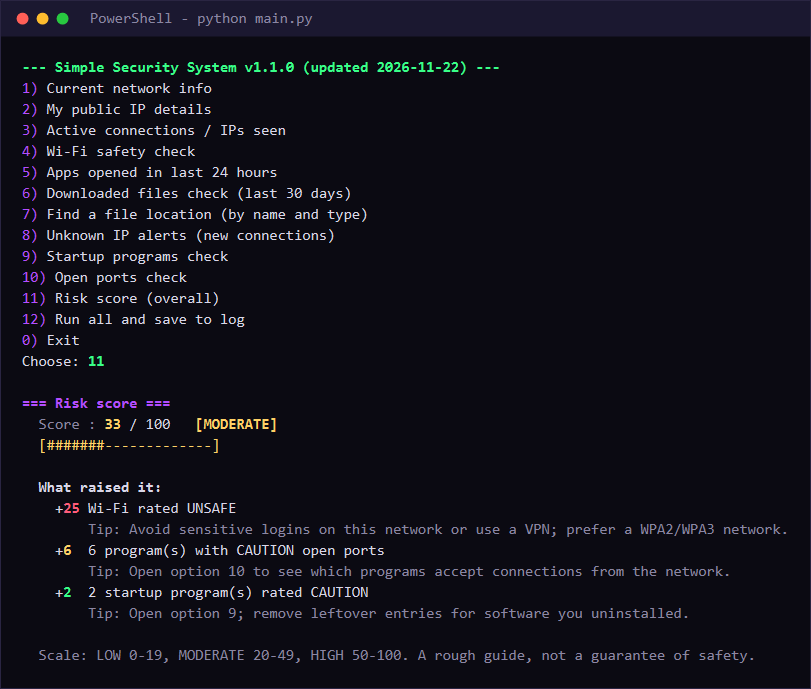
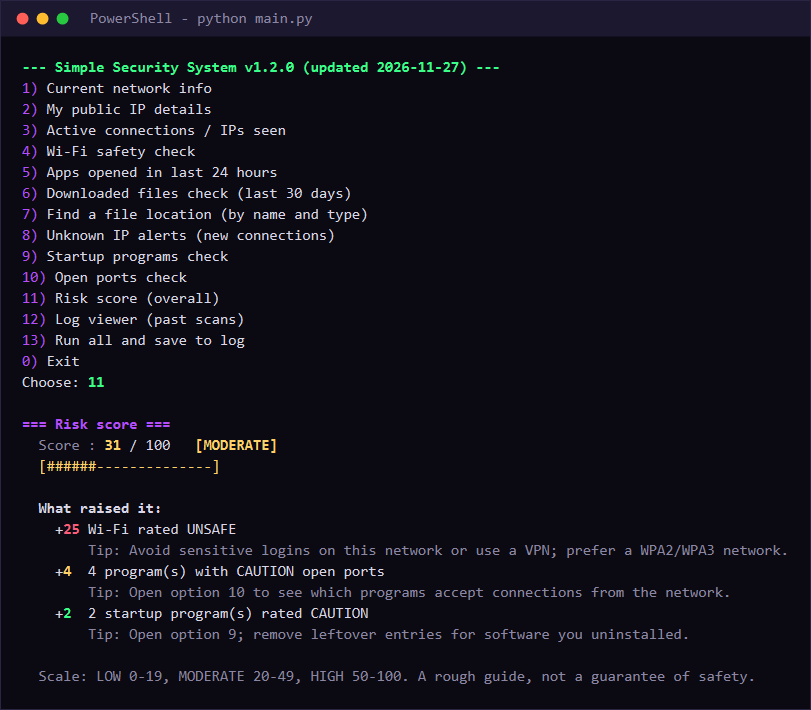
Update Simple Security System screenshot for v1.2.0
New image shows the 13-option menu and the colored risk score (real program
output, no personal details). Image size and description updated; ?v=2 added
so returning visitors do not see the cached old image.

diff --git a/projects.html b/projects.html
@@ -117,7 +117,7 @@
         <span class="tag-item">Standard library only</span>
       </div>
       <div class="shots single">
-        <button type="button" class="shot" aria-label="Enlarge: Simple Security System menu and risk score"><img src="images/simple-security-system.png" alt="Simple Security System in PowerShell: the main menu with 12 options and the risk score of 33 out of 100 (moderate) with what raised it and tips" width="811" height="689" loading="lazy"></button>
+        <button type="button" class="shot" aria-label="Enlarge: Simple Security System menu and risk score"><img src="images/simple-security-system.png?v=2" alt="Simple Security System in PowerShell: the main menu with 13 options and the risk score of 31 out of 100 (moderate) with what raised it and tips" width="811" height="710" loading="lazy"></button>
       </div>
       <div class="btn-row">
         <a class="btn green" href="https://github.com/Rijkaard1/Rijkaard1.github.io/tree/main/simple-security-system" target="_blank" rel="noopener noreferrer">View source &rarr;</a>
